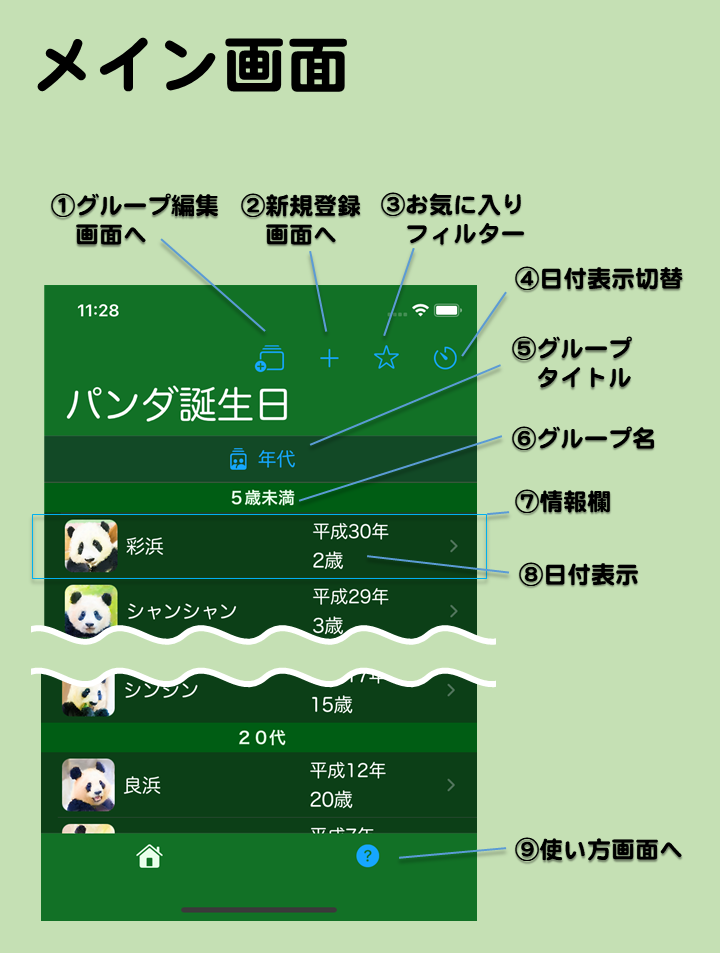
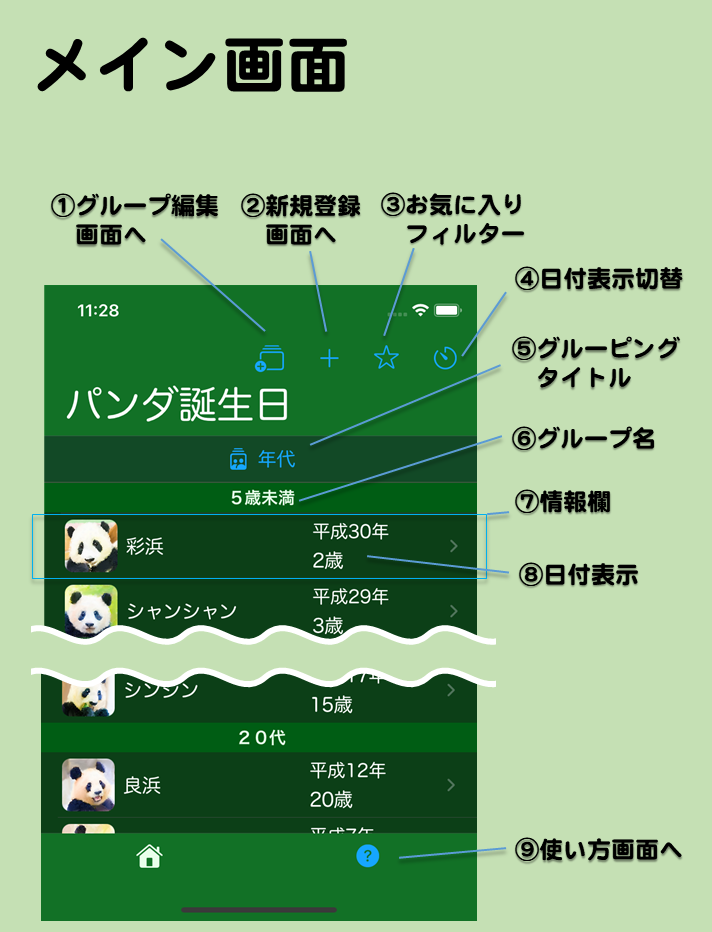
add new pages

diff --git a/pandabirthday/help_mainPage.html b/pandabirthday/help_mainPage.html
@@ -5,8 +5,9 @@
     <title>help_mainPage.html</title>
     <style type="text/css">
     #body {
-      font-family: "Helvetica", "ヒラギノ丸ゴ ProN";
-      font-size: 20pt;
+      font-family: "Helvetica", "ヒラギノ角ゴ ProN W3";
+      font-size: 22pt;
+      background-color: #c5e0b4;
     }
 
       #h1 {
@@ -35,17 +36,33 @@
       }
       
 </style></head>
-  <body id="body" style="   background-color: #c5e0b4;">
+  <body id="body">
     <p></p>
     <img src="help_mainpage.png" alt="main page image" title="main page ">
     <dl>
-      <dt>①グループ編集画面へ</dt>
-      <dd>
-        グループ編集画面に移動します。表示したいグループを変更したり、グループの表示順を変えたりできます。 </dd>
+      <dt>メイン画面。起動直後に表示されるこのアプリの基本画面です。パンダ情報を一覧表示します。</dt>
+      <dd><br></dd>
+      <dt>画面の説明</dt>
+      <dd></dd>
+      <dt>①グルーピング編集画面へ</dt>
+      <dd><a href="help_groopingEditPage.html">グルーピング編集画面</a>に移動します。表示したいグルーピングを変更したり、グルーピングの表示切り替え順序を変えたりできます。 </dd>
       <dt>②新規登録画面へ</dt>
-       <dd>新規登録画面に移動します。自分で誕生日やイベントを登録できます。 </dd>
+      <dd><a href="help_addPage.html">新規登録画面</a>に移動します。自分で誕生日やイベントを登録できます。 </dd>
       <dt>③お気に入りフィルター</dt>
-       <dd>お気に入りにした欄だけ表示するかどうかを切り替えます。お気に入りは詳細画面で変更できます。 </dd>
+      <dd>お気に入りを設定した情報だけ表示するかどうかを切り替えます。★ならフィルターオン、☆ならフィルターオフ（全部情報表示）です。
+      各情報のお気に入りは<a href="help_detailPage.html">詳細情報画面</a>で設定できます。 </dd>
+      <dt>④日付表示切替</dt>
+      <dd>情報欄の日付表示を切り換えます。グルーピングの種類によって切り換えられる表示形式が変わります。</dd>
+      <dt>⑤グルーピングタイトル</dt>
+      <dd>現在表示しているグルーピング（グループ分け）の種類を示します。タップすると次のグルーピングに変更します。表示したいグルーピングを変えたり、グルーピングの表示順序を変更したい時は<a href="help_groopingEditPage.html">グルーピング編集画面</a>で行えます。</dd>
+      <dt>⑥グループ名</dt>
+      <dd>現在のグルーピングに応じた情報欄のグループ名です。グループ毎に複数の情報欄がまとまって表示されます。</dd>
+      <dt>⑦情報欄</dt>
+      <dd>パンダ情報もしくは利用者が登録した情報の抜粋表示です。アイコン、名前、日付を表示します。iPadなどの画面が広い機種では場所も表示します。情報欄をタップすると<a href="help_detailPage.html">詳細情報画面</a>に移動します。</dd>
+      <dt>⑧日付表示</dt>
+      <dd>情報毎の日付を表示します。グルーピングが帰国期限ならば帰国日を示し、それ以外なら誕生日もしくはイベントの日を示します。日付表示切り替えアイコンをタップする度に表示方法が変わります。</dd>
+      <dt>⑨使い方画面へ</dt>
+      <dd>この使い方画面に移動します。</dd>
     </dl>
   </body>
 </html>

diff --git a/pandabirthday/help_groupingEditPage.html b/pandabirthday/help_groupingEditPage.html
@@ -1,0 +1,65 @@
+<!DOCTYPE html>
+<html lang="ja">
+  <head>
+    <meta http-equiv="content-type" content="text/html; charset=UTF-8">
+    <title>help_groupingEditPage.html</title>
+    <style type="text/css">
+    #body {
+      font-family: "Helvetica", "ヒラギノ角ゴ ProN W3";
+      font-size: 22pt;
+      background-color: #c5e0b4;
+    }
+
+      #h1 {
+        font-size: 30pt;
+      }
+      #h2 {
+        font-size: 24pt;
+      }
+      
+      img {
+        max-width: 100%;
+        width: 100%;
+        height: auto;
+      }
+
+      dl  {
+        padding: 10px 20px 20px 30px;
+        line-height: 1.4;
+      }
+      
+      dt {
+        font-weight: bold; 
+        margin-top: 10px;
+        margin-bottom: 5px;
+
+      }
+      
+</style></head>
+  <body id="body">
+    <p></p>
+    <img src="help_groupingeditpage.png" alt="groupingedit page image" title="groupingedit_page ">
+    <dl>
+      <dt>グルーピング編集画面。<a href="help_mainPage.html">メイン画面</a>でグループボタンを押して移動してくる画面です。メイン画面で表示したいグルーピングを選んだり、表示順序を変更したりできます。</dt>
+      <dd><br></dd>
+      <dt>画面の説明</dt>
+      <dd></dd>
+      <dt>①メイン画面に戻るへ</dt>
+      <dd>情報登録を中断して<a href="help_mainPage.html">メイン画面</a>に戻ります。情報登録したい場合は画面下の登録ボタンを押してください。</dd>
+      <dt>②種類選択</dt>
+      <dd>まず情報の種類を選択します。誕生日あるいはイベント（記念日など）のいずれかを選びます。誕生日を選んだ場合は入力項目に性別選択と種別選択が増えます。</dd>
+      <dt>③アイコン選択</dt>
+      <dd>メイン画面や詳細情報画面で表示されるアイコンを選びます。</dd>
+      <dt>④名前入力</dt>
+      <dd>情報を示す名前を入力します。既にある情報と同じ名前は登録できません。</dd>
+      <dt>⑤日にち選択</dt>
+      <dd>カレンダーを表示して年月日を選択します。</dd>
+      <dt>⑥場所入力</dt>
+      <dd>現在いる場所もしくはイベントの場所を入力します。メイン画面でグルーピングに「場所」を選んだ時に同じ場所がまとめられて表示されます。</dd>
+      <dt>⑦登録ボタン</dt>
+      <dd>上にある情報を入力した後にこのボタンをタップして情報を登録します。情報が登録されたら自動的にメイン画面に戻ります。</dd>
+      <dt>⑧使い方画面へ</dt>
+      <dd>この使い方画面に移動します。</dd>
+    </dl>
+  </body>
+</html>

diff --git a/pandabirthday/help_editPage.html b/pandabirthday/help_editPage.html
@@ -1,0 +1,65 @@
+<!DOCTYPE html>
+<html lang="ja">
+  <head>
+    <meta http-equiv="content-type" content="text/html; charset=UTF-8">
+    <title>help_editPage.html</title>
+    <style type="text/css">
+    #body {
+      font-family: "Helvetica", "ヒラギノ角ゴ ProN W3";
+      font-size: 22pt;
+      background-color: #c5e0b4;
+    }
+
+      #h1 {
+        font-size: 30pt;
+      }
+      #h2 {
+        font-size: 24pt;
+      }
+      
+      img {
+        max-width: 100%;
+        width: 100%;
+        height: auto;
+      }
+
+      dl  {
+        padding: 10px 20px 20px 30px;
+        line-height: 1.4;
+      }
+      
+      dt {
+        font-weight: bold; 
+        margin-top: 10px;
+        margin-bottom: 5px;
+
+      }
+      
+</style></head>
+  <body id="body">
+    <p></p>
+    <img src="help_editpage.png" alt="edit page image" title="edit_page ">
+    <dl>
+      <dt>編集画面。<a href="help_detalPage.html">詳細情報画面</a>で記入ボタンを押して移動してくる画面です。ユーザーが自分で登録した情報を変更できます。基本的に新規登録画面と同じ構成です。</dt>
+      <dd><br></dd>
+      <dt>画面の説明</dt>
+      <dd></dd>
+      <dt>①詳細情報画面に戻るへ</dt>
+      <dd>情報登録を中断して<a href="help_detailPage.html">詳細情報画面</a>に戻ります。修正した情報を登録したい場合は画面下の登録ボタンを押してください。</dd>
+      <dt>②種類選択</dt>
+      <dd>まず情報の種類を選択します。誕生日あるいはイベント（記念日など）のいずれかを選びます。誕生日を選んだ場合は入力項目に性別選択と種別選択が増えます。</dd>
+      <dt>③アイコン選択</dt>
+      <dd>メイン画面や詳細情報画面で表示されるアイコンを選びます。</dd>
+      <dt>④名前入力</dt>
+      <dd>情報を示す名前を入力します。既にある情報と同じ名前は登録できません。</dd>
+      <dt>⑤日にち選択</dt>
+      <dd>カレンダーを表示して年月日を選択します。</dd>
+      <dt>⑥場所入力</dt>
+      <dd>現在いる場所もしくはイベントの場所を入力します。メイン画面でグルーピングに「場所」を選んだ時に同じ場所がまとめられて表示されます。</dd>
+      <dt>⑦登録ボタン</dt>
+      <dd>上にある情報を入力した後にこのボタンをタップして情報を登録します。情報が登録されたら自動的に詳細情報画面に戻ります。</dd>
+      <dt>⑧使い方画面へ</dt>
+      <dd>この使い方画面に移動します。</dd>
+    </dl>
+  </body>
+</html>

diff --git a/pandabirthday/help_detailPage.html b/pandabirthday/help_detailPage.html
@@ -1,0 +1,65 @@
+<!DOCTYPE html>
+<html lang="ja">
+  <head>
+    <meta http-equiv="content-type" content="text/html; charset=UTF-8">
+    <title>help_detailPage.html</title>
+    <style type="text/css">
+    #body {
+      font-family: "Helvetica", "ヒラギノ角ゴ ProN W3";
+      font-size: 22pt;
+      background-color: #c5e0b4;
+    }
+
+      #h1 {
+        font-size: 30pt;
+      }
+      #h2 {
+        font-size: 24pt;
+      }
+      
+      img {
+        max-width: 100%;
+        width: 100%;
+        height: auto;
+      }
+
+      dl  {
+        padding: 10px 20px 20px 30px;
+        line-height: 1.4;
+      }
+      
+      dt {
+        font-weight: bold; 
+        margin-top: 10px;
+        margin-bottom: 5px;
+
+      }
+      
+</style></head>
+  <body id="body">
+    <p></p>
+    <img src="help_detailpage.png" alt="detail page image" title="detail_page ">
+    <dl>
+      <dt>詳細情報画面。<a href="help_mainPage.html">メイン画面</a>で情報欄をタップして移動してくる画面です。選んだ情報の詳細情報を表示します。</dt>
+      <dd><br></dd>
+      <dt>画面の説明</dt>
+      <dd></dd>
+      <dt>①メイン画面に戻るへ</dt>
+      <dd>情報登録を中断して<a href="help_mainPage.html">メイン画面</a>に戻ります。情報登録したい場合は画面下の登録ボタンを押してください。</dd>
+      <dt>②種類選択</dt>
+      <dd>まず情報の種類を選択します。誕生日あるいはイベント（記念日など）のいずれかを選びます。誕生日を選んだ場合は入力項目に性別選択と種別選択が増えます。</dd>
+      <dt>③アイコン選択</dt>
+      <dd>メイン画面や詳細情報画面で表示されるアイコンを選びます。</dd>
+      <dt>④名前入力</dt>
+      <dd>情報を示す名前を入力します。既にある情報と同じ名前は登録できません。</dd>
+      <dt>⑤日にち選択</dt>
+      <dd>カレンダーを表示して年月日を選択します。</dd>
+      <dt>⑥場所入力</dt>
+      <dd>現在いる場所もしくはイベントの場所を入力します。メイン画面でグルーピングに「場所」を選んだ時に同じ場所がまとめられて表示されます。</dd>
+      <dt>⑦登録ボタン</dt>
+      <dd>上にある情報を入力した後にこのボタンをタップして情報を登録します。情報が登録されたら自動的にメイン画面に戻ります。</dd>
+      <dt>⑧使い方画面へ</dt>
+      <dd>この使い方画面に移動します。</dd>
+    </dl>
+  </body>
+</html>

diff --git a/pandabirthday/help_addPage.html b/pandabirthday/help_addPage.html
@@ -1,0 +1,65 @@
+<!DOCTYPE html>
+<html lang="ja">
+  <head>
+    <meta http-equiv="content-type" content="text/html; charset=UTF-8">
+    <title>help_addPage.html</title>
+    <style type="text/css">
+    #body {
+      font-family: "Helvetica", "ヒラギノ角ゴ ProN W3";
+      font-size: 22pt;
+      background-color: #c5e0b4;
+    }
+
+      #h1 {
+        font-size: 30pt;
+      }
+      #h2 {
+        font-size: 24pt;
+      }
+      
+      img {
+        max-width: 100%;
+        width: 100%;
+        height: auto;
+      }
+
+      dl  {
+        padding: 10px 20px 20px 30px;
+        line-height: 1.4;
+      }
+      
+      dt {
+        font-weight: bold; 
+        margin-top: 10px;
+        margin-bottom: 5px;
+
+      }
+      
+</style></head>
+  <body id="body">
+    <p></p>
+    <img src="help_addpage.png" alt="add page image" title="add_page ">
+    <dl>
+      <dt>新規登録画面。<a href="help_mainPage.html">メイン画面</a>で＋ボタンを押して移動してくる画面です。ユーザーが自分で情報を登録できます。</dt>
+      <dd><br></dd>
+      <dt>画面の説明</dt>
+      <dd></dd>
+      <dt>①メイン画面に戻るへ</dt>
+      <dd>情報登録を中断して<a href="help_mainPage.html">メイン画面</a>に戻ります。情報登録したい場合は画面下の登録ボタンを押してください。</dd>
+      <dt>②種類選択</dt>
+      <dd>まず情報の種類を選択します。誕生日あるいはイベント（記念日など）のいずれかを選びます。誕生日を選んだ場合は入力項目に性別選択と種別選択が増えます。</dd>
+      <dt>③アイコン選択</dt>
+      <dd>メイン画面や詳細情報画面で表示されるアイコンを選びます。</dd>
+      <dt>④名前入力</dt>
+      <dd>情報を示す名前を入力します。既にある情報と同じ名前は登録できません。</dd>
+      <dt>⑤日にち選択</dt>
+      <dd>カレンダーを表示して年月日を選択します。</dd>
+      <dt>⑥場所入力</dt>
+      <dd>現在いる場所もしくはイベントの場所を入力します。メイン画面でグルーピングに「場所」を選んだ時に同じ場所がまとめられて表示されます。</dd>
+      <dt>⑦登録ボタン</dt>
+      <dd>上にある情報を入力した後にこのボタンをタップして情報を登録します。情報が登録されたら自動的にメイン画面に戻ります。</dd>
+      <dt>⑧使い方画面へ</dt>
+      <dd>この使い方画面に移動します。</dd>
+    </dl>
+  </body>
+</html>
